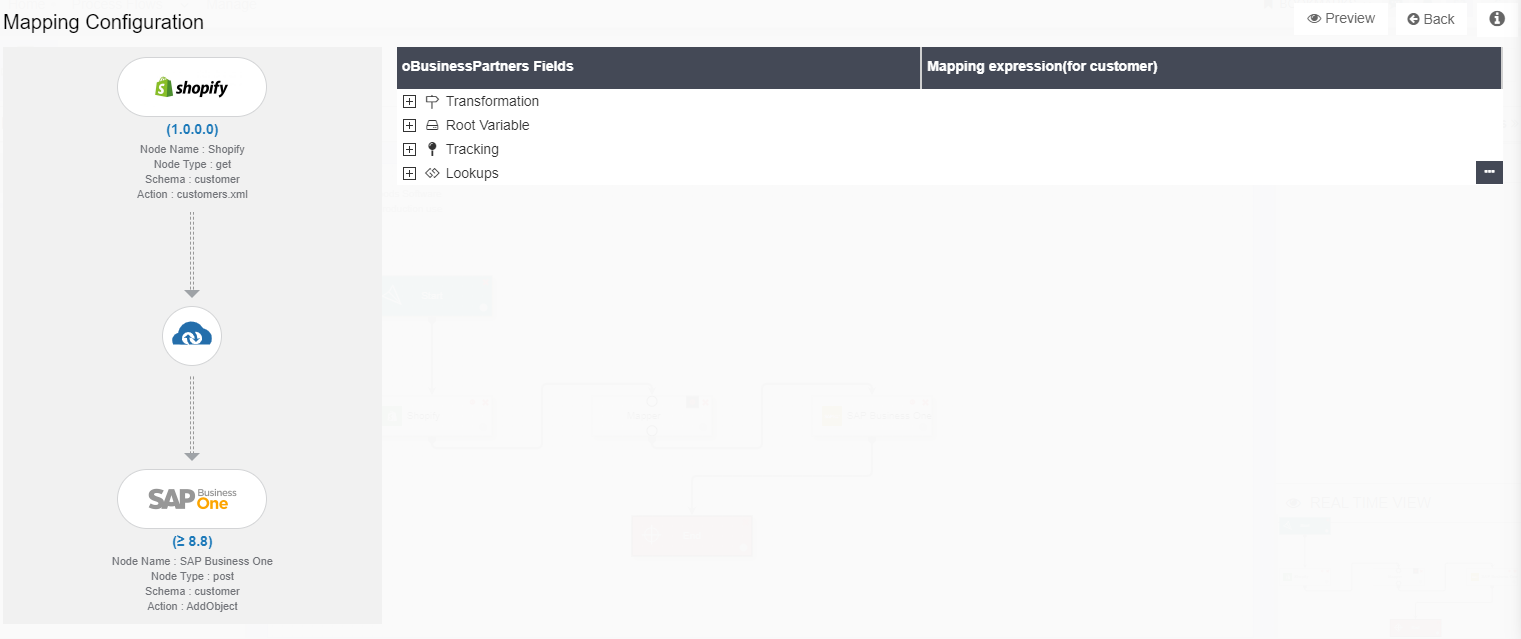
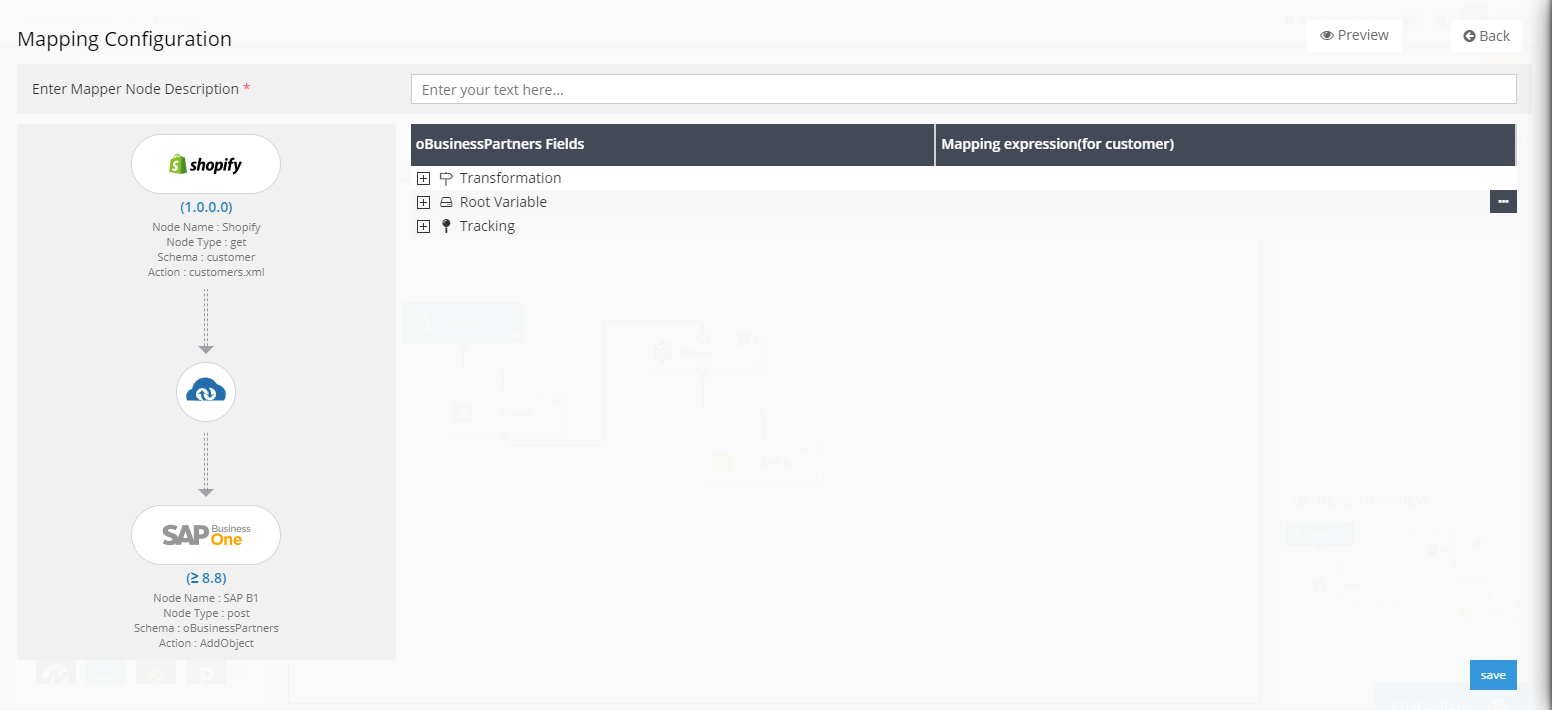
update mapper node

diff --git a/_posts/ProcessFlow Management/Mapper/2020-04-16-working-with-mapper.md b/_posts/ProcessFlow Management/Mapper/2020-04-16-working-with-mapper.md
@@ -28,27 +28,46 @@ of the Mapper Node, as shown in [process flow creation](/processflow/creating-pr
 ## Steps to work with Mapper Node
 
 1.	Login to the Portal and Navigate to the Process Flow Section from [Process Flow Listing Page](/processflow/processflow-listing-page/).        
+
 2.	[Create a New Process Flow](/processflow/creating-processflow/) or Edit an existing Process Flow in the [Designer Page](/processflow/designer-processflow/).      
+
 3. Start with linking  the Source and Destination app with the mapper node.The Node configuration Window of Mapper Node opens.
  ![Mapper 1](../../../staticfiles/processflow/media/mapper/mapper_1.png)   
-4. In the Node Configuration Window of Mapper Node, you will be to view the 
-   [structure of the mapper](/transformation/getting-started-with-mapping/#structure-of-mapping)node.  
+
+4. In the Node Configuration Window of Mapper Node, you will be to view the following components. [structure of the mapper](/transformation/getting-started-with-mapping/#structure-of-mapping)node. The Window will 
+
+- Node Name & Type: You will be able to view the Application Node Name and its Operation Type for both the Source and Destination Application.
+- Schema and Action Details: On the Left Pane of the window, you will be displayed with the Schema and Action selected for this transformation process. The details will be shown for both the selected apps.
+- Mapper Node Description: This will allow you to provide a description to the mapper node for distinguishing if you are working with multiple mapper nodes in a single Process Flow.
+- [structure of the mapper](/transformation/getting-started-with-mapping/#structure-of-mapping)node: The right side of the window, will enlist the components of the mapper node that will help you transform data between applications.
+
+**Note: The option for Lookups in [Structure of Mapping](/transformation/getting-started-with-mapping/#structure-of-mapping) will not be available for ProcessFlows**
+
 5.	[Structure of Mapping](/transformation/getting-started-with-mapping/#structure-of-mapping)will help you know provide a 
 basic walkthrough of the Mapper Node. 
+
+**Note: The option for Lookups in [Structure of Mapping](/transformation/getting-started-with-mapping/#structure-of-mapping) will not be available for ProcessFlows**
+
 6. To work with Mapper node, you need to know about the [components of Mapping](/transformation/understanding-components-of-mapping/) or Mapper node. 
 ![Mapper 2](../../../staticfiles/processflow/media/mapper/mapper_2.png)  
-4.	Variables are one such component which are necessary when working with 
+
+7.	Variables are one such component which are necessary when working with 
 Mapper Node. To know more, view [types of variables](/transformation/types-of-variable/) used in APPSeCONNECT.
 ![Mapper 3](../../../staticfiles/processflow/media/mapper/mapper_3.png)
-5.	Mapper node focuses on mapping of attributes with Source & Destination
+
+8.	Mapper node focuses on mapping of attributes with Source & Destination
 applications. To know more, view [steps to Customize Attribute Mapping](/processflow/customising-attribute-mapping/)  
-6.	Mapping/Mapper of Processflows requires the usage of Library functions for transforming data from Source to Destination.   
+
+9.	Mapping/Mapper of Processflows requires the usage of Library functions for transforming data from Source to Destination.   
 To know more, view the [Appresource functions](/transformation/using-library-methods/).  
-7.	You can also implement logic over attributes using IF condition.   
+
+10.	You can also implement logic over attributes using IF condition.   
 To know more, view [implementing IF condition](/processflow/steps-to-define-logic-over-destination-mapping/) in attribute mapping.  
-8.Lookups maps specific value that are required to transform.   
+
+11.Lookups maps specific value that are required to transform.   
 To know more on repository, view [Lookup Repositories](/processflow/implementing-lookup-in-mapping/).  
 
+**Note: The option for Lookups in [Structure of Mapping](/transformation/getting-started-with-mapping/#structure-of-mapping) will not be available for ProcessFlows**
 
 Following are the steps and necessary links that are required to work with the Mapper node of Process Flow.
 For executing a sync process user needs to execute the following tasks in mapper node.
